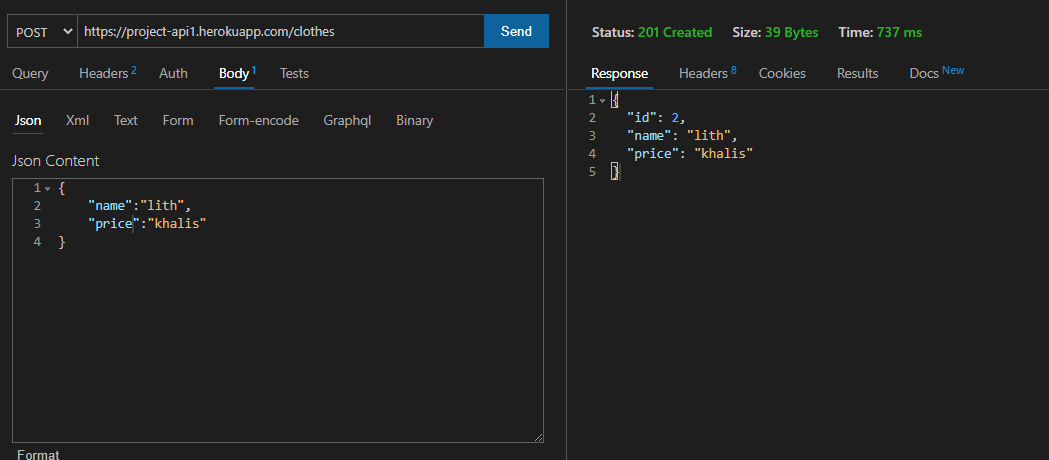
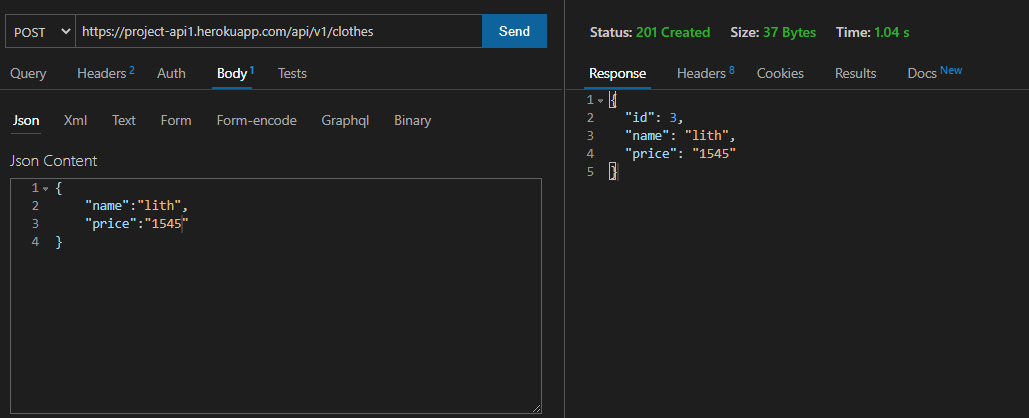
lith

diff --git a/README.md b/README.md
@@ -1,9 +1,9 @@
 # basic-api-server
 
 ## 🚀 heroku link food
-https://project-api1.herokuapp.com/food
+https://project-api1.herokuapp.com/api/v1/food
 ## 🚀 heroku link clothes
-https://project-api1.herokuapp.com/clothes
+https://project-api1.herokuapp.com/api/v1/clothes
 ## 🚀 project link
 https://github.com/lithhalim/basic-api-server
 ## 🚀 pull request
